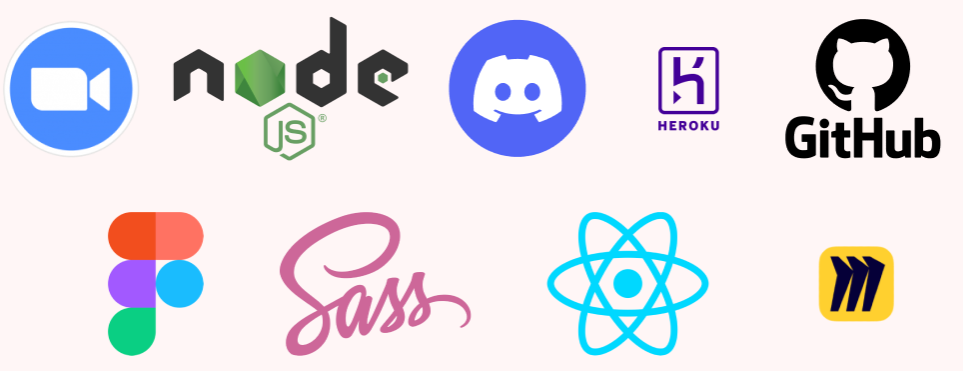
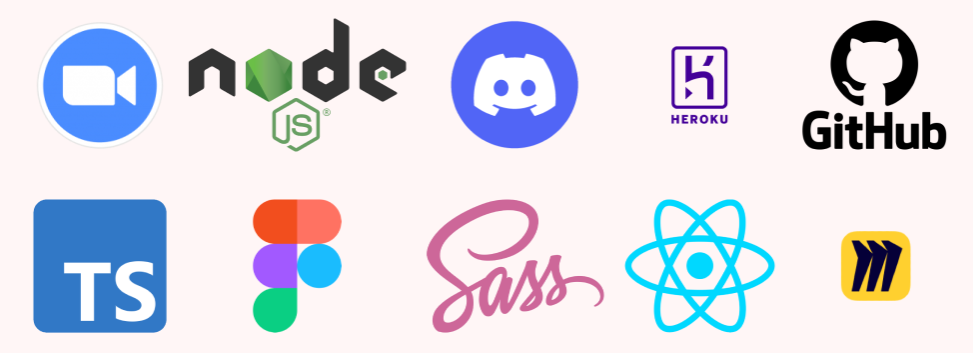
Content Anpassungen 2.0 & Video

diff --git a/content/ws21/master/m2-a-better-spotify/process.md b/content/ws21/master/m2-a-better-spotify/process.md
@@ -1,39 +1,44 @@
 +++
 title = "Process"
-weight = 2
+weight = 1
 +++
 
 {{<section title="Research">}}
-Like all projects, Better Spotify started with a lot of research. This entailed not only researching different ideas on how to add new things to the already existing version of Spotify but also researching current trends when it came to the design of music players and Websites in general. 
+Since Spotify – with a whole team of experts behind it – is one of the global players in audio streaming, the question was how the team of seven students could improve the product in a short time. In the beginning, research had to be carried out in various directions in order to be able to **identify possible optimisations** and **restructurings**. 
+
+Basic questions like the target group and main focus points of our project had to be answered. This entailed not only **researching** different *ideas on how to add new features* to the already existing version of Spotify but also researching *current trends* regarding the design of music players and websites in general. 
+
 
 {{<image src="Miroboard_1.jpg" alt="Pic of the first Drafts" caption="Draft of the process">}}
 
-Luckily we didn’t have to come up with an idea to what exactly the project was going to be, but we still needed to figure out in which direction we wanted to go, whether or not we wanted to focus on certain things, recreate Spotify in an entirely different way, focus on a specific **age group** and so on. 
+After approximately four weeks of intensive research, we decided to analyze Spotify, take the well-working features and optimize the identified problems with new and innovative solutions.
 
-After talking about it for a week or two, it was clear that we wanted to put our own twist on the already existing application and plainly try to improve the things we saw potential in.
-In order to gain **more** information as to what exactly that would include, a focus group had to be interviewed to get an even broader array of data on the way than the internet and our own group had provided so far. 
+In order to gain **qualitative** data as to what exactly needed to be included, a ***focus group*** had to be interviewed to get an even broader array of data on the way than the internet and our own group had provided so far. Despite the pandemic, it was possible to invite ten heavy users of Spotify in compliance with the previous protective provisions, of course.
+
 
 {{</section>}}
 
 {{<image src="Miroboard_4.jpg" alt="Pic of the Miro Board" caption="First Idea Board">}}
 
-{{<section title="Focus Group #1">}}
-The focus group consisted of **9 people** total, some of which were part of our own team. That way we had a foolproof way to ensure the conversation wasn’t going to come to a stop *and* to encourage the external sources to give more input. In order to get the most out of the interview, we asked the participants in advance whether or not they would consider themselves **heavy users** of music streaming platforms (using those kinds of apps at the least every other day).
-That way we were able to assure knowing that they knew the application well enough to be a *trustworthy* source of information. 
+{{<section title="Focus Group">}}
+The focus group consisted of **10 people** in total. That way we had a foolproof way to ensure the conversation wasn’t going to come to a halt*and* to encourage the external sources to give more input. In order to get the most out of the interview, we started a discussion in advance whether or not they would consider themselves **heavy users** of music streaming platforms (using those kinds of apps at the least every other day). The challenge was to initiate an exchange between the invited persons.
+That way we were able to assure that they knew the application well enough to be a *trustworthy* source of information. 
+
 
 {{<image src="FocusGroupQs.PNG" alt="Prepared questions for the Focus Group" caption="Focus Group Cycle">}}
 
  - In the beginning, we prepared a **set of questions** to get a grasp as to what kind of listener the focus group participants were.
- - Then we proceeded to give them the chance to simply think about the streaming platforms and name any kind of **feature** they would want to be refurbished in any way or even added because it wasn't there yet.
- - Lastly, the focus group was presented with a **stimulus**. In our case that was 3 different kinds of music player design handpicked from the design team of the group to show different approaches to modern designs. This step was crucial to spark new ideas in the participants' minds and provide them with a different view angle to some features and even led to new wishes for features popping up. 
+ - Then we proceeded to give them the chance to simply think about the streaming platforms and name any kind of **feature** they would want to be refurbished in any way or even added because it didn’t even exist yet.
+ - Lastly, the focus group was presented with a **stimulus**. In our case that was 3 different kinds of music player design handpicked from the research team of the group to show different approaches to modern designs. This step was crucial to spark new ideas in the participants' minds and provide them with a different point of view on some features and even led to new wishes for features popping up. 
 
-All of the different ideas discussed by and during the focus group were collected and written down into an **affinity board**. This was the best way to group the ideas, see whether or not doubles were made *and* have a proper way to evaluate them.
+
+All of the different ideas discussed by and during the focus group were collected and written down into an **affinity board**. This was the best way to group the ideas, see whether or not duplicates were made *and* have a proper way to evaluate them. It also helped immensely with creating a general overview and scope for the project.
 
 {{<image src="Affinityboard.jpg" alt="Pic of the affinityboard" caption="The Affinityboard">}}
 
-First we created different **sections**, grouping the possible tickets and ideas together before then not only putting them into our **kanban board** to provide the team with tickets to start implementing but also sorting every single one into a **requirement sheet**. 
+First, we created different **sections**, grouping the possible tickets and ideas together before putting them into our **kanban board**. This board was used to provide the team with possible first tasks for implementation, as well as create a **requirement sheet**.
 
-Said requirement sheet was important for the organisation of the project because it provided the team with a proper way of **prioritising** the most important features. It also helped tremendously with creating graphs and tables that helped us stay on track of progress throughout the implementation process. 
+Said requirement sheet was important for the organization of the project because it provided the team with a way of **prioritising** the most important features. It also helped tremendously with creating graphs and tables that helped us stay on track of progress throughout the implementation process. 
 
 {{<image src="Priorities.PNG" alt="The Implementation Priorities" caption="Priority Graph">}}
 
@@ -41,12 +46,12 @@ Said requirement sheet was important for the organisation of the project because
 
 {{<section title="Design">}}
 
-Quite early on, the team had decided to ensure a proper design was ready for every single aspect of the project. This was owed to the team knowing from experience that proper preparation speeds up the implementation process greatly. Sticking to one design means that everything is a lot **cleaner** and **more consistent** in itself and therefore needs much fewer changes later on. 
+Quite early on, the team had decided to ensure that a proper design was ready for every single aspect of the project. This was owed to the team knowing from experience that proper preparation speeds up the implementation process greatly. Sticking to one design means that everything is a lot **cleaner** and **consistent** in itself and therefore needs much fewer changes later on. 
 
-Another point that made having a proper design so very interesting and important was the possibility of **checking the design** whenever they were done. Instead of simply creating screens and passing them on to the team, each and every one of the designs was **double-checked** with a group of heavy Spotify users that agreed to do so week after week. 
-This way the designs were proved over and over again, ensuring that the **usability standpoint** was as high as possible throughout the entire process. 
+Another point that made having a proper design very interesting and important was the possibility of **checking the design** whenever they were implemented. Instead of simply creating screens and passing them on to the team, each and every one of the designs was **double-checked** with a group of heavy Spotify users that agreed to give us continuous feedback. 
+This way the designs were proved over and over again, ensuring that the **usability standpoint** was still the utmost priority throughout the entire process. 
 
-This meant trying out different things, different versions and improving over and over again. It meant having to **change details** and **features** more than once and even throwing away the entire basic design. 
+This meant trying out various possible design solutions, different interface versions and improving over and over again. It meant having to **change details** and **features** more than once and even throwing away the entire basic design based on user feedback. 
 
 {{</section>}}
 
@@ -57,28 +62,27 @@ This meant trying out different things, different versions and improving over an
 
 {{<section title="Implementation">}}
 
-The implementation was quickly set up as we decided on our tech stack very early on in the project. Everybody decided on trying out **React**, some already worked with it beforehand, so the setup process began shortly after understanding the project and having a general idea of what needed to be done. 
+The implementation was set up as we decided on our tech stack very early on in the project. Everybody decided on trying out **React**, some already worked with it beforehand, so the setup process began shortly after understanding the project and having a general idea of what needed to be done.
 
-The team's plan was to go with a proper **agile development** but it quickly became apparent that we were more or less **loosely** going for it. The team had a weekly meeting on Mondays that was fixed and occasionally met up on Thursdays with and without the product owner (our professor) to have additional talks about the process of the project. 
+The team developed according to the Scrum method. Since the project is based on an approx. 15h week, there was a **weekly** instead of a daily scrum. Every Monday the team got together to speak about the personal progress, mention challenges they were facing and select new tickets from the ticket backlog to continue working on. During the development months, meetings took place with the professor - which could be seen as stakeholder meetings. The team worked **independently** and was **self-organized**. All decisions and planning were only made by the team and not by the professor. 
 
-Usually, the team split up into smaller groups, worked on tickets together using **pair programming**, **brainstormed** together whenever we had time and made the best out of what was possible for us. Every ticket was documented in Github via the **Kanban board**.
+Each team member worked on self-selected tickets from the backlog. For this purpose, a continuously updated **Kanban board** was created and used throughout the entire project. When problems arose and a team member was stuck, the pair programming method was used. Additionally, small groups were formed to take on larger challenges. This ensured that the full knowledge of the whole team was utilized.  
 
-{{<image src="Kanbanboard.PNG" alt="Kanban board on Github" caption="Project on Github">}}
+{{<image src="Kanban.PNG" alt="Kanban board on Github" caption="Project on Github">}}
 
-Working **remotely** on a project and finding multiple timeslots in a week that work for all of the 7 people in the team just wasn’t realistic. 
-With the help of digital meeting rooms such as Zoom, the **social distancing** in the project was no problem though and subgroups of the team were able to meet up whenever needed. 
-
+Working **remotely** on a project and finding multiple time slots in a week that work for all seven members of the team wasn't realistic. 
+With the help of digital meeting rooms such as Zoom, **social distancing** was no problem and subgroups of the team were able to meet up whenever needed. Discussions and questions were held in a Discord Server with multiple channels in order to be able to act and communicate quickly.
 
 {{</section>}}
 
 
-{{<section title="Focus Group #2">}}
+{{<section title="User Testing">}}
 
-To close off the **circle of usability** this project entailed, we decided to do a second round with our focus group and have them test the application. This time though, we didn’t do it in a big group but instead decided to go for small interviews with two people maximum. These were done with one **moderator** and another person **making notes**, ensuring that no comment goes unnoticed. 
+To cover the whole process this project entailed, we decided to finish it with usability tests for our application, using, once more, heavy users of Spotify, to test our application. The team wanted to find out if we managed to improve the user journey as planned. Therefore, in total **6 usability testings** were made to consolidate remaining usability issues. The idea was to invite people, who were participating in the focus group too and some who have never seen the project ideas before. The tests were held in Zoom with the tester, a moderator and a second person from the team, who took notes. 
 
-The gist of user tests like these was letting the user take over the application and have them navigate through the different features on their own. This was entirely to ensure that the user would have the same experience as they would normally when using a new application. Having the test users **speak their minds** and **comment** on every single detail they see helped on finding out anything they were displeased with or simply confused by so that the team could react to them.
+The gist of user tests like these was letting the user take over the application and have them navigate through the different features and explore the app on their own. This was entirely to ensure that the user would have the same experience as they would normally when using a new application. Having the test users **think aloud** and **comment** on every single detail they see helped find out anything they were displeased with or simply confused by so that the team could react to them.
 
-Luckily, the interviews showed that the team did a good job in incorporating the different features that were needed. Especially the homepage was fully **accepted** and **commended** by the focus group.
-
+Luckily, the interviews showed that the team did a good job in incorporating the different features that were needed. The customizable homepage was **commended greatly** by the participants of the tests and the tag system was applauded as well.
+Seeing how well the usability tests worked in gathering data and improving the UX to end up with a system the user actually wants, was more than anything the team could have dared to expect.
 
 {{</section>}}

diff --git a/content/ws21/master/m2-a-better-spotify/features.md b/content/ws21/master/m2-a-better-spotify/features.md
@@ -1,6 +1,6 @@
 +++
 title = "Features"
-weight = 1
+weight = 2
 +++
 
 
@@ -10,68 +10,80 @@ weight = 1
 
 {{<section title="The Startpage" >}}
 
-One of the most important features, which is also our **unique selling point** is our improved **Homepage**. Web Spotify’s Homepage is filled with content the user doesn’t need or doesn’t want on there. Instead of being greeted with the features and information, they do want, the user has to scroll a lot and doesn’t have the chance to **customize** it to their needs. 
+Our **unique selling point** is our improved **Startpage**.
 
-#### Customize the Homepage
 
-Better Spotify changes that by replacing the Spotify Homepage with a **widget system** on a **grid**. The widget can be chosen by the user to give them the possibility of making the choice whether or not they **want** certain parts to be **displayed or not**.
 
-Additionally, the widgets are **moveable via drag-and-drop** which makes it even easier for the user to customize the Homepage to their own wishes. The grid adjusts while a widget is being moved and automatically shifts everything else to make space. This way, the user has a visual representation of where everything will end up once they drop the widget into its space. 
-Additionally, it is also possible to change the widget’s **size** to their desire so that they can properly shift their homepages focus on whichever feature they need the most. This includes making more information visible as soon as the widget’s size increases and reducing the info displayed to make use of the fewer space left. 
+#### Customize the Startpage
+
+Better Spotify changes that by replacing the Startpage with a **widget system** based on a **grid layout**. The widgets can be chosen by the user to give them the possibility of making the choice whether or not they **want** certain parts to be **displayed**.
+
+Additionally, the widgets are **moveable via drag-and-drop** which makes it even easier for the user to customize the Homepage to their own needs and wishes. The grid adjusts while a widget is being moved and automatically shifts everything else to make space. This way, the user has a visual representation of where everything will end up once they drop the widget into its space. 
+
+Moreover, it is possible to change the widget’s **size** to their desire so that they can properly shift their homepages focus on whichever feature they need the most. This includes making more information visible as soon as the widget’s size increases and reducing the info displayed to make use of the fewer space left.
+
+Finally, being able to add the favourite playlist to the homepage results in a faster use of the system. The user **avoids long click iterations** and gets to their desired screen a lot smoother.
+
+*In comparison: Web Spotify’s Startpage is filled with content the user doesn’t need or doesn’t want on there, e.g. Podcasts. Instead of being greeted with the features and information, they do want, the user has to scroll a lot and doesn’t have the chance to **customize** it to their needs. *
 
 
 #### Avoiding errors
 
-To help the user on their way, we prepared the homepage with the most useful features for the wide variety of Better Spotify users and had them **pre-arranged** on the board. To ensure that there are **no unintentional changes** to the layout, the adjustment of the grid system needs to be activated via the press of the **edit button**. Only then will the editor open up. Otherwise, the Homepage is locked into place and usable as usual. 
+To help the user on their way, we prepared the homepage with the most useful features for the wide variety of Better Spotify users and had them **pre-arranged** on the board. To ensure that there are **no unintentional changes** to the layout, the adjustment of the grid system needs to be activated via the press of the **edit button**. Only then will the editor appear. Otherwise, the Homepage is locked into place and usable as usual. 
+
 
 {{</section>}}
 
-{{<image src="Startpage-useage.gif" alt="Changing the grid" caption="Use of the grid" >}}
+{{<image src="Startpage_Useage_new.gif" alt="Changing the grid" caption="Use of the grid" >}}
 
 
 
 {{<section title="Tag System" >}}
-Another improvement of the system was adding a way to tag songs for the user. This was not at all possible with Spotify and was high on the priority list of our focus group which was why implementing a **tag system** was out of the question. After all, it is not always possible to present one's own visions in a **one-dimensional hierarchical concept**, which is why cross-references are necessary.
+Another improvement of the system was adding a way to tag songs for the user. This was not possible with Spotify and was high on the priority list of our focus group which was why implementing a **tag system** was out of the question. After all, it is not always possible to present one's own visions in a **one-dimensional hierarchical concept**, which is why cross-references are necessary.
 
-With the tag system, a user has now the possibility to **sort** songs not just in one way via using the Playlist feature but also via using customizable tags. The user can **create them themself** and is free in naming them and has an assortment of different **colours** they can choose from. This helps the user to get a **visual clue** when scrolling through song lists and aids in **grouping songs** accordingly. 
+With the tag system, a user has now the possibility to **sort** songs not just in one way via using the Playlist feature but also via using customizable tags. The user can **create them themself** and is free in naming them and choosing a distinct **colour** for them. This helps the user to get a **visual clue** when scrolling through song lists and aids in **grouping songs** accordingly. 
 
 {{<image src="TagSystem.gif" alt="creating a new tag" caption="How to create a new tag">}}
 
-Tags also work as individual playlists for themselves as well as the user can simply click on the tag they want to access and a list with all the tagged songs inside will be displayed. This makes it a lot easier to **adjust the tags** on songs as well as check which songs belong to the tag and which don't. 
-
-{{<image src="Opentaglist.jpg" alt="opening the taglist" >}}
+Tags work as individual playlists for themselves. With a single click on the tag a list with all songs with the same tag will be displayed. This makes it a lot easier to **adjust the tags** on songs as well as check which songs belong to the tag and which don't. 
 
 {{</section>}}
+
+{{<image src="Taglist.gif" alt="opening the taglist" >}}
 
 
 
 
 {{<section title="Generic streaming platform features">}}
-Besides all these improvements from Spotify, our version of Better Spotify naturally contains the necessary functions for a user to use a web player. Besides **favouriting songs**, putting them in **playlists**, **viewing artists**, **albums**, **podcasts** and more, there is also a **discovery page** that helps the user find new music that should cater to their tastes. 
+Besides all these improvements from Spotify, our version of Better Spotify naturally contains the necessary functions for a user to use a web player. Besides **favouriting songs**, putting them in **playlists**, **viewing artists**, **albums**, **podcasts** and more, there is also a **discover page** that helps the user find new music that should cater to their tastes.
 
-Even those easy functions have been **reviewed and optimized** to try and get a better user experience out of the application than what Spotify has to offer. 
-
-{{<image src="GenericFeat.gif" alt="All the features a Streaming Platform should have" >}}
+Even those already existing functions have been **reviewed and optimized** to try and get a better user experience out of the application than what Spotify has to offer. While Spotify provides the music suggestions on the Startpage, which makes it overwhelming to scroll through the whole bunch of different categories, mixed with podcasts, audiobooks and music, Better Spotify offers the categories **separately**. That improves the interaction in the system and offers the user a faster way to achieve their desired goal and provides a better, general overview.
 {{</section>}}
 
+{{<image src="Generic.gif" alt="the generic functions of a music streaming platform" >}}
 
 
 {{<section title="Sleek Design">}}
 
-The last feature or focal point the project wanted to work on was improving the general **design** of the application without straying too far from what the user was used to. Instead of forcing them to learn an entirely new way of interacting with the system, the design was toned down into a more **simplistic** and **cleaner** version of Spotify. 
+The last feature and focal point the team wanted to work on was improving the general **design** of the application without straying too far from what the user was used to. Instead of forcing them to learn an entirely new way of interacting with the system, the design was toned down into a more **simplistic** and **cleaner** version of Spotify. 
 
-With a **sidebar** that is **minimizable** to widen the main screen if wanted, **headers** that are much **sleeker** and smaller while still giving the same amount of information in a simpler way as well as a more **visually distinguishable layout** of album and playlist covers. 
+With a **sidebar** that is **minimizable** to widen the main screen if wanted, **headers** that are much **sleeker** and smaller while still giving the same amount of information in a simpler way as well as a more **visually distinguishable layout** of album and playlist covers. Furthermore, Better Spotify provides a dark- and light mode.
 
-{{<image src="Homepage Design.PNG" alt="Diff Design showcases" >}}
+{{<image src="Darkmode.PNG" alt="Darkmode des Systems" caption="Darkmode des Systems" >}}
+{{<image src="lightmode.PNG" alt="Lightmode des Systems" caption="Lightmode des Systems" >}}
 
-All of these points were derived from the results of the **focus group interview** that was done in the beginning as well as multiple smaller feedback sessions with Spotify users, to ensure that a **broad variety of users with different need and desires** for the app agreed to the design and reviewed it properly. In the end, more **User Tests** were done to **solidify the design** and features even more.
+
+All of these points were derived from the results of the **focus group interview** that was done in the beginning as well as multiple smaller feedback sessions with Spotify users, to ensure that a **broad variety of users with different needs and desires** for the app agreed to the design and reviewed it properly. In the end, more **User Tests** were done to **solidify the design** and features.
 {{</section>}}
 
 
 
 {{<section title="Data Storage">}}
-Due to the fact that Better Spotify runs with the help of the Spotify API, there is **no need** for the application to **save more data** than Spotify itself already owns. Therefore, the user is not obligated to give any new additional information they don’t want to hand out.
+Better Spotify runs on the Spotify API and fetches data directly from the streaming platform itself. This means that Better Spotify itself is in no need to save anything other than the layout of the dashboard, the users country and the different tags created by the users themself. 
 
-Anything changed within the app is either saved in the **Spotify account** itself or **locally**, taking Better Spotify’s backend out of the equation entirely. 
+To avoid any further unnecessary processing of data, everything is merely saved in the **local storage** of the user’s machine, making it easy for it to be reloaded whenever need be. The only way for the user to accidentally lose their data would be through a mistake on Spotify’s side or if the user manually deleted their local storage for some reason.
+
+Better Spotify prides itself with **not** needing to *process or retain any kind of data* from the user, making it a safe space for anyone with an existing Spotify account. 
+
 
 {{</section>}}

diff --git a/content/ws21/master/m2-a-better-spotify/future.md b/content/ws21/master/m2-a-better-spotify/future.md
@@ -18,33 +18,34 @@ Having the comments be visible for **friends only** would prevent public negativ
 
 It would also be a nice way to leave notes for oneself directly in the app which could be used for multiple purposes such as **reminders**, **looking back at songs**, figuring out how they affected oneself, whether or not they work with others and much more. Having a comment function, in general, could be a nice addition to the streaming platform. 
 
+
 {{</section>}}
 
 {{<section title="Song catcher">}}
 
+Most people interested in music and listening to it, find new songs while they’re out and about should know about the application Shazam which is a **Song catcher**, scanning music coming in through a mobile device’s microphone and then finding the appropriate song for it on the internet. 
 
-Most people interested in music and listening to it, finding new songs while they’re out and about should know about the application Shazam which is a **Song catcher**, scanning music coming in through a mobile device’s microphone and then finding the appropriate song for it on the internet. 
-
-Even though Shazam is already connected to Spotify when the song is available on the platform, a song catcher directly in Spotify. Possibly one that doesn’t just take the song itself but a **sung / hummed** versions of it when one is trying to remember both music / lyrics themselves would be extremely handy to have. 
+Even though Shazam is already connected to Spotify when the song is available on the platform, a song catcher built into Better Spotify, which doesn’t just take the song itself but a **sung / hummed** version of it when one is trying to remember both music / lyrics themselves would be extremely handy to have. 
 
 It would improve the way to find music in the app itself a lot even though the **AI** behind the song recognition would have to be trained very specifically for the directly sung / hummed version of songs. 
+
 
 {{</section>}}
 
 {{<section title="Personal Usage Statistics">}}
 
-
 Something so incredibly banal but nice to have would be a view of the personal usage of the app. Spotify already started doing it with their Spotify Rewinds at the end of every year and yet the app **fails** to *provide proper views and numbers* for the user to be constantly available. 
 
-Tracking one’s listening history over time, the amount of **time spent on the app**, which **genre’s** are the user’s current favourite, **how many playlists** have been listened to how many times, which **songs** in them are **skipped over** a lot while others have been listened to on repeat. Statistics like those aren’t just interesting for the app itself but especially for the user to see. 
+Tracking one’s listening history over time, the amount of **time spent on the app**, which **genre’s** are the user’s current favourite, **how many playlists** have been listened to how many times, which **songs** in them are **skipped over** a lot while others have been listened to on repeat. Statistics like those aren’t just interesting for the app itself but especially for the user to see. A positive example already presenting this form of feature would be Audible.
 
 They could be used to **self-analyse**, **adjust listening behaviour** or even just to chat with friends and compare different **statistical points**. 
+
 
 {{</section>}}
 
 {{<section title="Shortcuts">}}
 
-Shortcuts nowadays are something that we couldn’t live without. Having Ctrl+C, Ctrl+V, the F5 button to reload and so many more are doing nothing but make our lives easier. 
+Shortcuts nowadays are something that we could not imagine living without it. Having Ctrl+C, Ctrl+V, the F5 button to reload and so many more are doing nothing but make our lives easier. 
 Having the possibility of adding shortcuts like these to Better Spotify
  - playing the chosen song
  - making new playlists
@@ -54,6 +55,7 @@ Having the possibility of adding shortcuts like these to Better Spotify
  - switching tabs within the application
 
 So far there are only extensions to browsers that make it possible for the user to have keyboard shortcuts which is definitely a missed opportunity when it comes to the **usability** of the app. Especially thinking about people not being able to click precisely with a mouse would have it much easier pressing one or two buttons to achieve the same thing. **Inclusivity** is something that definitely needs to be a part of a web applications design. 
+
 
 {{</section>}}
 

diff --git a/content/ws21/master/m2-a-better-spotify/_index.md b/content/ws21/master/m2-a-better-spotify/_index.md
@@ -3,25 +3,34 @@ title = "A Better Spotify"
 project_id = "M2"
 
 # Properties for displaying the project in the project list
-card_image = "logo.jpg"
-card_description = "‘Better-Spotify' is a web application that is based on the audio-streaming platform Spotify and is designed to provide an improved user experience compared with the original. The main features Spotify offers are still prominent while also including new ones that were priorly overlooked or discarded."
+card_image = "logolight.jpg"
+card_description = "‘Better-Spotify' is a web application that is based on the audio-streaming platform Spotify and is designed to provide an improved user experience. The main features Spotify offers are still prominent while also including new ones that were priorly overlooked or discarded."
 
 source_link = "https://github.com/jakepanter/better-spotify"
 team = ["Jakob Panthen", "Stefan Böhnert", "Malin Dulkies", "Lennard Grimm", "Phillip Kiele", "Piranavi Satkunanathan", "Naomi Schoppa" ]
 supervisor = "David Strippgen"
 +++
 
-{{<mediathek id="73fc815213cba6193247e9f2e057d364" title="Presentation">}}
+{{<mediathek id="578e28b13c46a384cd8d83edb4322b62" title="Presentation">}}
 
 {{<section title="Our Objective">}}
-Spotify is the most well-known music-streaming-platform that exists in the web-based world as we know it and even though it has billions in assets and millions of users, there are still things that could be improved and simply changed about the platform in order to give the users a better experience and simply upgrade the user journey. 
+Even though Spotify is the most well-known streaming platform that exists in the world and has billions in assets and millions of users, there is still some **usability optimization** that can be done. In many blogs and internet sources, heavy users complain about usability related issues when it comes to Spotify. Finding comments mentioning **unintuitive user flows**, **inconsitencies** across pages and **features not located where the user would expect them**, was not uncommon. In fact, there most certainly is the possibility to improve Spotify – our aim was to analyze the existing UX issues, develop new approaches and, of course, implement them in an adequate way. 
 
-The idea under which ‘Better Spotify’ was born was trying to get **feedback from heavy users** themselves and implement them in a web application that has the same features and feel of Spotify but is an **improved** and overall **better version** (hence the name) for it.
+
+The idea under which ‘Better Spotify’ was born was trying to get **feedback from heavy users** themselves and implement them in a web application that has the same features and feel of Spotify but is an **improved** and overall **better version** (hence the name).
+
 
 {{</section >}}
 
 {{<section title="The Team">}}
-Due to the teams’ diverse backgrounds in the development of web-based applications, we split our group of 7 up into different teams. While there was the **research** team and the **setup** team, in the beginning, that quickly changed into certain people focusing on the **design and usability** aspect of the application while the others worked on the **implementation** of the gained information. This way, the main focus wasn’t lost along the way.
+To achieve the goals in a short period of time, the project team of seven students was divided into three operational areas: 
+
+- The first team was responsible for **UX and research.**
+- The second team started with the **development** and **setup** for the project implementation and continued as the programmers.
+- The third team was already working on the **design** and **interface realizations** that would be considered for the implementation of the project.
+
+Because the Scrum method was used and we were **working agile**, each team was needed for the entire development period of four months. Through the iterative process, new ideas and improvements had to be implemented again and again.
+
 {{</section >}}
 
 {{<gallery>}}

diff --git a/content/ws21/master/m2-a-better-spotify/tech-stack.md b/content/ws21/master/m2-a-better-spotify/tech-stack.md
@@ -5,27 +5,23 @@ weight = 4
 
 {{<image src="TechStack.png" alt="Tech Stack">}}
 
+{{<section title="Typescript">}}
+
+#### [Typescript](https://www.typescriptlang.org)
+- Typescript is the programming language that was used in both front- and backend. It compiles to Javascript but provides more features like type-safety. This avoids runtime errors and improves development flow with suggestions in the IDE. 
+
+{{</section>}}
+
 {{<section title="Backend">}}
 #### [NodeJS](https://nodejs.org/en/)
 - A Javascript runtime used in the backend
 #### [ExpressJS](https://expressjs.com)
 - A backend web application framework for NodeJS
 
-Both of these were used for connecting the Spotify API with our own backend and providing the proper information needed to Better Spotify 
-
-
 {{</section>}}
 
 
-{{<section title="Deployment">}}
-#### [Heroku](https://www.heroku.com)
-- Heroku was used for the Deployment of Better Spotify due to the fact that the deployment process on Heroku was much simpler and easier to use which made deployment and processing everything a lot faster, long term. 
 
-#### [Github](https://github.com)
-- During the process of the project, we used Github to share our code with one another, to keep a versioning system and to ensure that branching worked out well. We also made use of the Kanban Boards provided in the ‘Project’ tab of the repository to stay organized and maintain a good overview regarding what state our tickets were in.
-
-
-{{</section>}}
 
 
 {{<section title="Frontend">}}
@@ -40,6 +36,16 @@ Both of these were used for connecting the Spotify API with our own backend and 
 
 #### [Miro](https://miro.com) 
 - Miro, as the online whiteboard platform that it is, was used to hold information, share research in a more visible way than a google document could ever have. 
+
+{{</section>}}
+
+
+{{<section title="Deployment">}}
+#### [Heroku](https://www.heroku.com)
+- Heroku was used for the Deployment of Better Spotify due to the fact that the HTW Server had some restrictions regarding the playback that held us from using it. Also, the CI/CD process on Heroku was much simpler and easier to set up.
+
+#### [Github](https://github.com)
+- During the process of the project, we used Github to share our code with one another, to keep a versioning system and to ensure that branching worked out well. We also made use of the Kanban Boards provided in the ‘Project’ tab of the repository to stay organized and maintain a good overview regarding what state our tickets were in.
 
 
 {{</section>}}

diff --git a/content/ws21/master/m2-a-better-spotify/Challenges.md b/content/ws21/master/m2-a-better-spotify/Challenges.md
@@ -13,19 +13,19 @@ This had more than just one reason that all worked together to get to the final 
 - The Spotify API does not provide any context for the queue
 
 Having to decide on the **scope** of the project as soon as possible, listening to priorities was crucial. Therefore it was more than important to weigh out the possibilities of what was feasible and what the users actually wanted. In the end, the queue had a **lower improvement rank** than the *startpage, the usability, design and even the playlists themselves*. 
+
 {{<image src="Priorities.PNG" alt="Pirorities" caption="The finished Priority graph">}}
 {{</section>}}
 
 
 
-{{<section title="Liked Songs">}}
+{{<section title="Starting at the first song">}}
 
 A challenge that the team stumbled across in the later parts of development was certain issues with the Spotify API. Even though the API was a great help and managed to get the project where it is at this point, it still managed to put some stones into the team's path. 
 
-One of those was an issue with the liked songs and playing a certain one from the users' list. Unlike in playlists, where a double click *automatically plays the selected song*, the liked songs always start with the *first song in the list* and then start their shuffle process. 
+One of those was an issue with the liked songs and playing a certain one from the users' list. Unlike in playlists, where a double click automatically plays the selected song, the liked songs always start with the first song in the list and then start their shuffle process. 
 
-This happened because in any other feature (Playlists, Albums, Singles, EP’s, Taglists etc) Better Spotify sends an **offset** to the API to indicate which song was selected so that the correct song would be played. Unfortunately, this offset is **not accepted** by the Spotify API when it comes to liked songs. 
-Therefore no matter which song the user chooses, the list will start playing from the top. 
+This happened because in any other feature (Playlists, Albums, Singles, EP’s, Taglists etc) Better Spotify sends an offset to the API to indicate which song was selected so that the correct song would be played. For some reason though, this offset is not being accepted by the Spotify API when it comes to liked songs and this, unfortunately, stretches on to the search function as well.
 
 {{</section>}}
 
